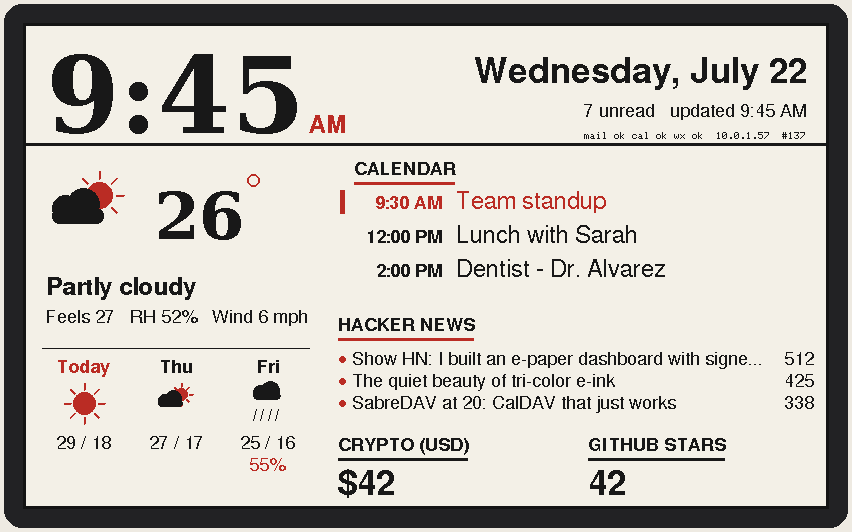
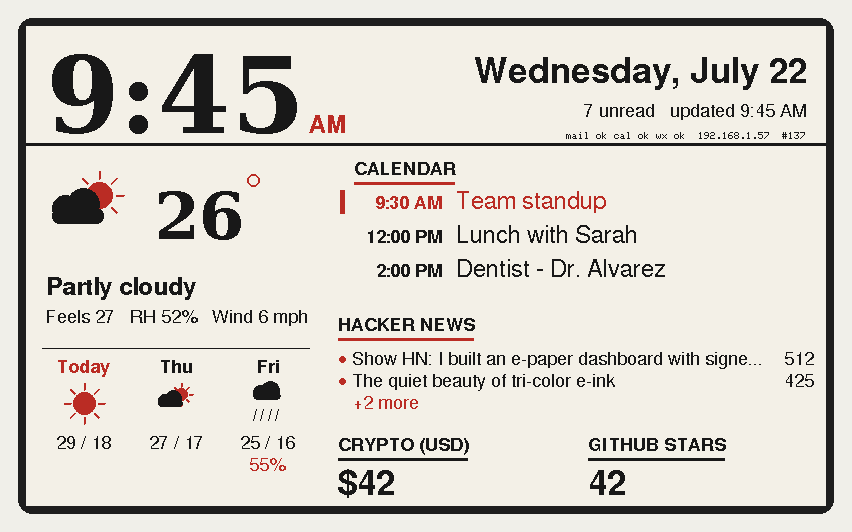
Refresh the README blocks shot and keep its framing tool
docs/dashboard_blocks.png was one HN row and a "$" behind main since
PR #4 (widgets draw a "+N more" marker instead of dropping rows). The
852x532 frame around the 800x480 scene had no generator in the repo, so
the shot could only be restored, never regenerated (journal 2026-09-08).

tools/frame_shot.py makes that frame from a preview .ppm; the shot is
tests/host/build_preview.sh output passed through it.

diff --git a/tools/frame_shot.py b/tools/frame_shot.py
@@ -1,0 +1,25 @@
+"""Frame an 800x480 preview .ppm the way docs/dashboard_blocks.png is framed.
+
+    python3 tools/frame_shot.py preview_blocks.ppm docs/dashboard_blocks.png
+
+The README shots are 852x532: the scene inside a dark rounded bezel on the
+site's off-white. Nothing else in the repo makes that frame, so this does.
+"""
+import sys
+from PIL import Image, ImageDraw
+
+MARGIN = 26           # bezel + margin each side: (852 - 800) / 2
+BEZEL = 8             # dark rim width
+RADIUS = 14
+PAPER = (240, 239, 233)
+INK = (30, 30, 30)
+
+src = Image.open(sys.argv[1]).convert("RGB")
+w, h = src.size
+out = Image.new("RGB", (w + 2 * MARGIN, h + 2 * MARGIN), PAPER)
+d = ImageDraw.Draw(out)
+d.rounded_rectangle([MARGIN - BEZEL, MARGIN - BEZEL, w + MARGIN + BEZEL - 1, h + MARGIN + BEZEL - 1],
+                    radius=RADIUS, fill=INK)
+out.paste(src, (MARGIN, MARGIN))
+out.save(sys.argv[2], optimize=True)
+print(out.size, sys.argv[2])
